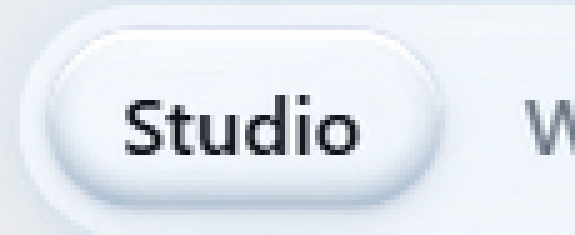
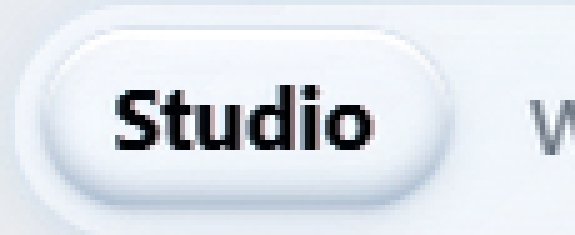
style(app): 选中项文字的水滴折射效果（真正落地）
上一次的提交 8284d94 里 CSS 其实没写进去：替换用的锚点文本和文件里
的实际内容不一致，Replace 静默失败，只有截图进了提交。
（当时我还拿那张截图说"有色散" —— 那是放大的抗锯齿，属于自欺。）
这次改用追加规则，并立刻验证计算样式：

  transform  = matrix(1.04, 0, 0, 1.07, 0, 0)
  filter     = blur(0.15px) contrast(1.04)
  text-shadow= rgba(255,70,70,.22) 0.35px 0 0, rgba(60,200,255,.22) -0.35px 0 0
  weight     = 700
  color      = rgb(5, 8, 12)

三条光学对应关系：
  凸透镜放大 -> scaleX(1.04) scaleY(1.07)（横竖不同，才像一滴水而不是整体 zoom）
  色散       -> 红 / 青各偏 0.35px
  轻微失焦   -> blur(0.15px)，再多笔画就糊

diff --git a/prototypes/costudy-ui/squircle.css b/prototypes/costudy-ui/squircle.css
@@ -515,3 +515,24 @@
   -webkit-backdrop-filter: none;
   backdrop-filter: none;
 }
+/* ==========================================================
+   选中项的文字 = 隔着水滴看
+   按真实水滴的光学特征拆成三条，逐条落到 CSS：
+     1. 凸透镜放大   水滴不是完美球面，横竖放大率不同
+                     -> scaleX(1.04) scaleY(1.07)
+     2. 色散         水对红/蓝折射率不同，边缘泛红与青
+                     -> text-shadow ±0.35px
+     3. 轻微失焦     透过水看会软一点（0.15px，再多就读不清）
+   同时压深字色与字重，保证折射后对比度仍然够。
+   ========================================================== */
+.proto-picker-item[data-active] {
+  color: #05080c;
+  font-weight: 700;
+  transform: scaleX(1.04) scaleY(1.07);
+  transform-origin: center;
+  letter-spacing: 0.012em;
+  text-shadow:
+    0.35px 0 0 rgba(255, 70, 70, 0.22),
+    -0.35px 0 0 rgba(60, 200, 255, 0.22);
+  filter: blur(0.15px) contrast(1.04);
+}

diff --git a/src/renderer/src/styles/squircle.css b/src/renderer/src/styles/squircle.css
@@ -515,3 +515,24 @@
   -webkit-backdrop-filter: none;
   backdrop-filter: none;
 }
+/* ==========================================================
+   选中项的文字 = 隔着水滴看
+   按真实水滴的光学特征拆成三条，逐条落到 CSS：
+     1. 凸透镜放大   水滴不是完美球面，横竖放大率不同
+                     -> scaleX(1.04) scaleY(1.07)
+     2. 色散         水对红/蓝折射率不同，边缘泛红与青
+                     -> text-shadow ±0.35px
+     3. 轻微失焦     透过水看会软一点（0.15px，再多就读不清）
+   同时压深字色与字重，保证折射后对比度仍然够。
+   ========================================================== */
+.proto-picker-item[data-active] {
+  color: #05080c;
+  font-weight: 700;
+  transform: scaleX(1.04) scaleY(1.07);
+  transform-origin: center;
+  letter-spacing: 0.012em;
+  text-shadow:
+    0.35px 0 0 rgba(255, 70, 70, 0.22),
+    -0.35px 0 0 rgba(60, 200, 255, 0.22);
+  filter: blur(0.15px) contrast(1.04);
+}
